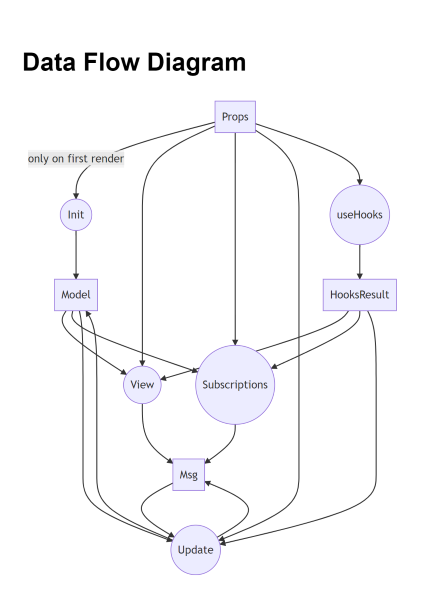
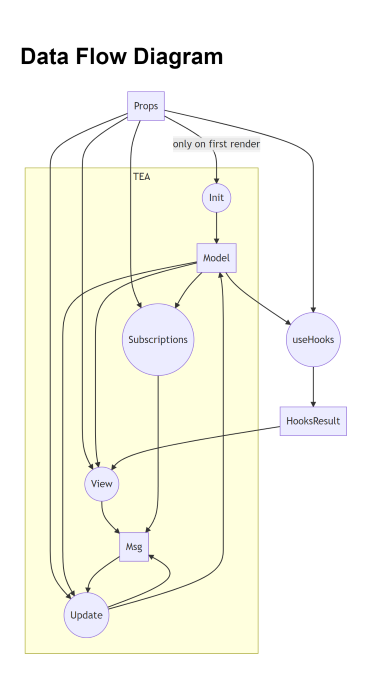
docs: update dfd

diff --git a/doc/dev/DataFlowDiagram.md b/doc/dev/DataFlowDiagram.md
@@ -3,21 +3,27 @@
 ```mermaid
 graph TD
     p[Props]
-    i((Init))
-    m[Model]
-    msg[Msg]
     h((useHooks))
     H[HooksResult]
-    u((Update))
-    v((View))
-    s((Subscriptions))
 
     p -- only on first render --> i
     p --> v & s & u & h
     i --> m
-    m --> v & s & u
-    h --> H --> v & s & u
-    v & s --> msg
-    msg --> u
-    u --> msg & m
+    m --> h
+
+    subgraph TEA
+        i((Init))
+        m[Model]
+        msg[Msg]
+        u((Update))
+        v((View))
+        s((Subscriptions))
+
+        u --> msg & m
+        m --> v & s & u
+        v & s --> msg
+        msg --> u
+    end
+
+    h --> H --> v
 ```
